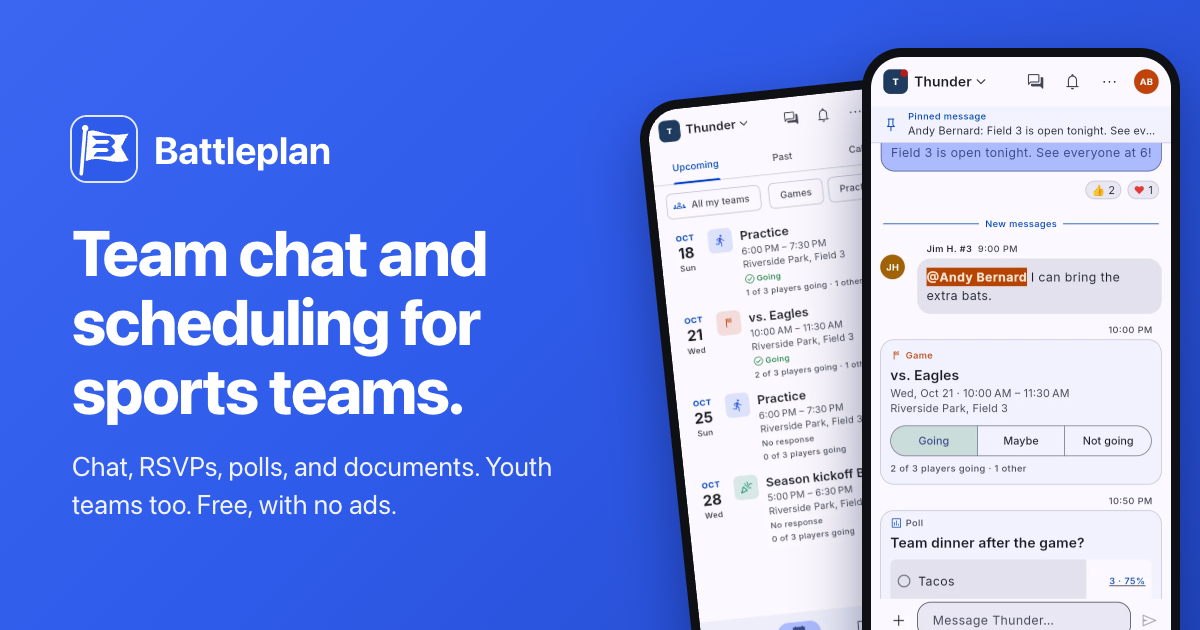
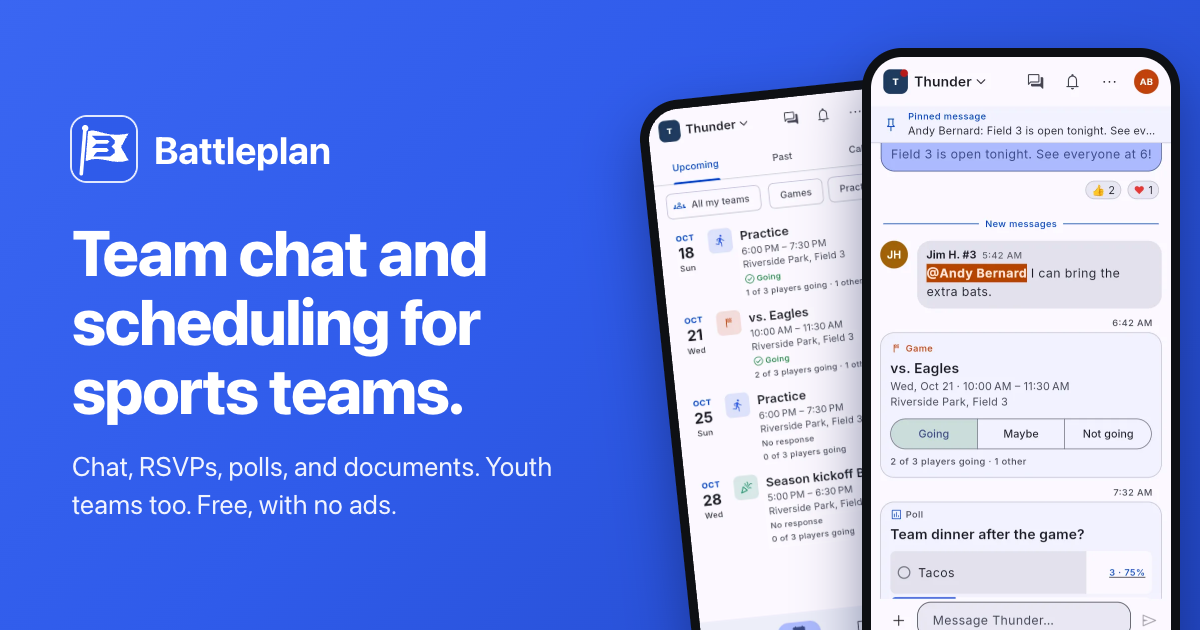
A more compact chat, like GroupMe's
Each message is its own bubble: the name and time sit inside it at the
top of a person's run (just the time on mine), photos sit inside with
their caption, the avatar is level with the bubble, and there's less
space between messages. Date separators are small pills. One-line
bubbles stay 48 tall, a full tap target. The landing page's
screenshots are retaken.

diff --git a/lib/features/chat/presentation/message_tile.dart b/lib/features/chat/presentation/message_tile.dart
@@ -502,77 +502,50 @@ class _MessageTileState extends ConsumerState<MessageTile> {
               onTap: widget.onOpenQuote,
             ),
           );
-    // A one-line bubble is 48 tall, a full tap target (SPEC §7.6).
-    final textBubble = Container(
-      constraints: const BoxConstraints(maxWidth: 520),
-      padding: const EdgeInsets.symmetric(
-        horizontal: Space.md,
-        vertical: Space.md,
-      ),
-      decoration: BoxDecoration(
-        color: deleted ? Colors.transparent : background,
-        border: deleted
-            ? Border.all(color: scheme.outlineVariant)
-            : announcement
-            ? Border.all(color: scheme.secondary)
-            : null,
-        borderRadius: BorderRadius.circular(Corners.bubble),
-      ),
-      child: deleted
-          ? Text(
-              switch (m.deletedReason) {
-                'admin' => l10n.messageRemovedByAdmin,
-                // Its last photo was deleted in Media (STORE-5).
-                'media' => l10n.photoRemovedByAdmin,
-                _ => l10n.messageDeleted,
-              },
-              style: TextStyle(
-                fontStyle: FontStyle.italic,
-                color: scheme.onSurfaceVariant,
+    // A poll shows as its card (POLL-2, CHAT-11); its text is the question,
+    // which the card shows itself.
+    final isPoll = m.type == MessageType.poll && !deleted;
+    // An event card (CHAT-11, SCHED-3), posted by the server.
+    final isEvent =
+        m.type == MessageType.event && m.eventId != null && !deleted;
+    final card = isPoll || isEvent;
+
+    // Inside the bubble, at the top (CHAT-1), as GroupMe has it: the name and
+    // time on a group's first message (mine shows only the time), and
+    // "edited" or "Pinned" on any message that is.
+    final meta = [
+      if (widget.startsGroup) ?time,
+      if (widget.startsGroup) headerMarks else marks,
+    ].where((p) => p.isNotEmpty).join(' · ');
+    final named = widget.startsGroup && !mine;
+    final innerHeader = card || (!named && meta.isEmpty)
+        ? null
+        : Padding(
+            padding: const EdgeInsets.only(bottom: 2),
+            child: Text.rich(
+              TextSpan(
+                children: [
+                  if (named)
+                    TextSpan(
+                      text: nameWithPlayersOf(
+                        m.authorName,
+                        m.authorPlayerSummary,
+                      ),
+                      style: theme.textTheme.labelLarge?.copyWith(
+                        fontWeight: FontWeight.w700,
+                        color: foreground,
+                      ),
+                    ),
+                  if (meta.isNotEmpty) TextSpan(text: named ? '  $meta' : meta),
+                ],
               ),
-            )
-          : Column(
-              crossAxisAlignment: CrossAxisAlignment.start,
-              mainAxisSize: MainAxisSize.min,
-              children: [
-                if (announcement)
-                  Padding(
-                    padding: const EdgeInsets.only(bottom: Space.xs),
-                    child: Row(
-                      mainAxisSize: MainAxisSize.min,
-                      children: [
-                        Icon(
-                          AppIcons.announcement,
-                          size: 18,
-                          color: foreground,
-                        ),
-                        const SizedBox(width: Space.xs),
-                        Text(
-                          l10n.chatAnnouncementLabel,
-                          style: theme.textTheme.labelLarge?.copyWith(
-                            color: foreground,
-                          ),
-                        ),
-                      ],
-                    ),
-                  ),
-                ?quote,
-                if (hasText)
-                  LinkifiedText(
-                    m.text,
-                    phones: !web,
-                    style: theme.textTheme.bodyLarge?.copyWith(
-                      color: foreground,
-                    ),
-                    linkColor: foreground,
-                    highlights: highlights,
-                    onOpen: (uri) =>
-                        unawaited(ref.read(linkOpenerProvider).open(uri)),
-                  ),
-              ],
+              style: theme.textTheme.labelMedium?.copyWith(
+                color: foreground.withValues(alpha: 0.7),
+              ),
             ),
-    );
-    // Photos sit above the caption (CHAT-3).
+          );
+
+    // Photos sit inside the bubble, above the caption (CHAT-3).
     final photos = deleted || m.attachments.isEmpty
         ? null
         : PhotoGrid(
@@ -597,13 +570,112 @@ class _MessageTileState extends ConsumerState<MessageTile> {
               );
             },
           );
-    // A poll shows as its card (POLL-2, CHAT-11); its text is the question,
-    // which the card shows itself.
-    final isPoll = m.type == MessageType.poll && !deleted;
-    // An event card (CHAT-11, SCHED-3), posted by the server.
-    final isEvent =
-        m.type == MessageType.event && m.eventId != null && !deleted;
-    final bubble = isPoll || isEvent
+    // Around photos the bubble is a thin frame, and what's above and below
+    // them is inset to line up with a text bubble's.
+    const photoInset = Space.xs + 2;
+    Widget inset(Widget child) => photos == null
+        ? child
+        : Padding(
+            padding: const EdgeInsets.symmetric(
+              horizontal: Space.md - photoInset,
+            ),
+            child: child,
+          );
+    final body = <Widget>[
+      if (innerHeader != null) inset(innerHeader),
+      if (deleted)
+        Text(
+          switch (m.deletedReason) {
+            'admin' => l10n.messageRemovedByAdmin,
+            // Its last photo was deleted in Media (STORE-5).
+            'media' => l10n.photoRemovedByAdmin,
+            _ => l10n.messageDeleted,
+          },
+          style: TextStyle(
+            fontStyle: FontStyle.italic,
+            color: scheme.onSurfaceVariant,
+          ),
+        )
+      else ...[
+        if (announcement)
+          Padding(
+            padding: const EdgeInsets.only(bottom: Space.xs),
+            child: Row(
+              mainAxisSize: MainAxisSize.min,
+              children: [
+                Icon(AppIcons.announcement, size: 18, color: foreground),
+                const SizedBox(width: Space.xs),
+                Text(
+                  l10n.chatAnnouncementLabel,
+                  style: theme.textTheme.labelLarge?.copyWith(
+                    color: foreground,
+                  ),
+                ),
+              ],
+            ),
+          ),
+        if (photos != null)
+          Padding(
+            padding: EdgeInsets.only(
+              top: innerHeader == null ? 0 : Space.xs,
+              bottom: hasText || quote != null ? Space.xs + 2 : 0,
+            ),
+            child: photos,
+          ),
+        if (quote != null) inset(quote),
+        if (hasText)
+          inset(
+            LinkifiedText(
+              m.text,
+              phones: !web,
+              style: theme.textTheme.bodyLarge?.copyWith(color: foreground),
+              linkColor: foreground,
+              highlights: highlights,
+              onOpen: (uri) =>
+                  unawaited(ref.read(linkOpenerProvider).open(uri)),
+            ),
+          ),
+      ],
+    ];
+    // Each message is its own bubble. A one-line bubble is 48 tall, a full
+    // tap target (SPEC §7.6); one with a header line is taller anyway, so
+    // its padding is tighter.
+    final textBubble = Container(
+      constraints: const BoxConstraints(maxWidth: 520),
+      padding: photos != null
+          ? EdgeInsets.fromLTRB(
+              photoInset,
+              innerHeader == null ? photoInset : Space.sm,
+              photoInset,
+              hasText ? Space.sm + 2 : photoInset,
+            )
+          : innerHeader != null
+          ? const EdgeInsets.fromLTRB(
+              Space.md,
+              Space.sm,
+              Space.md,
+              Space.sm + 2,
+            )
+          : const EdgeInsets.symmetric(
+              horizontal: Space.md,
+              vertical: Space.md,
+            ),
+      decoration: BoxDecoration(
+        color: deleted ? Colors.transparent : background,
+        border: deleted
+            ? Border.all(color: scheme.outlineVariant)
+            : announcement
+            ? Border.all(color: scheme.secondary)
+            : null,
+        borderRadius: BorderRadius.circular(Corners.bubble),
+      ),
+      child: Column(
+        crossAxisAlignment: CrossAxisAlignment.start,
+        mainAxisSize: MainAxisSize.min,
+        children: body,
+      ),
+    );
+    final bubble = card
         ? Column(
             crossAxisAlignment: mine
                 ? CrossAxisAlignment.end
@@ -622,20 +694,13 @@ class _MessageTileState extends ConsumerState<MessageTile> {
                 ),
             ],
           )
-        : Column(
-            crossAxisAlignment: mine
-                ? CrossAxisAlignment.end
-                : CrossAxisAlignment.start,
-            mainAxisSize: MainAxisSize.min,
-            children: [
-              ?photos,
-              if (photos != null && hasText) const SizedBox(height: 2),
-              if (photos == null || hasText || quote != null) textBubble,
-            ],
-          );
+        : textBubble;
 
     final openAuthor = mine ? null : _authorTap(m);
-    final header = widget.startsGroup && !mine
+    // Cards (polls, events) keep the name and time above them.
+    final header = !card
+        ? null
+        : widget.startsGroup && !mine
         ? Padding(
             padding: const EdgeInsets.only(left: Space.md, bottom: Space.xs),
             child: Text.rich(
@@ -825,18 +890,22 @@ class _MessageTileState extends ConsumerState<MessageTile> {
     // in a slot as wide as a tap target, since it opens their page.
     final avatarSlot = SizedBox(
       width: kMinInteractiveDimension,
+      // Level with the bubble's top, where the name is; a card has its
+      // name above it.
       child: widget.startsGroup
           ? Padding(
-              padding: const EdgeInsets.only(top: Space.lg),
+              padding: EdgeInsets.only(top: card ? Space.lg : 0),
               child: _AuthorAvatar(message: m, onTap: openAuthor),
             )
           : null,
     );
 
     final row = Padding(
+      // Compact, as GroupMe is: each bubble a little apart from the next,
+      // a little more between people.
       padding: EdgeInsets.fromLTRB(
         Space.md,
-        widget.startsGroup ? Space.sm : 2,
+        widget.startsGroup ? Space.xs + 2 : 3,
         Space.md,
         widget.endsGroup ? Space.xs : 0,
       ),
@@ -881,7 +950,7 @@ class _AuthorAvatar extends ConsumerWidget {
       name: message.authorName,
       colorKey: message.authorId,
       imageUrl: url,
-      size: 32,
+      size: 36,
     );
     final tap = onTap;
     if (tap == null) return avatar;

diff --git a/lib/features/chat/presentation/chat_screen.dart b/lib/features/chat/presentation/chat_screen.dart
@@ -1106,16 +1106,33 @@ class _DateSeparator extends StatelessWidget {
 
   final DateTime day;
 
+  /// A small pill ("Today"), as GroupMe has it.
   @override
   Widget build(BuildContext context) {
     final theme = Theme.of(context);
     return Padding(
-      padding: const EdgeInsets.symmetric(vertical: Space.md),
+      padding: const EdgeInsets.symmetric(vertical: Space.sm),
       child: Center(
-        child: Text(
-          dayLabel(AppLocalizations.of(context), day.toLocal(), DateTime.now()),
-          style: theme.textTheme.labelMedium?.copyWith(
-            color: theme.colorScheme.onSurfaceVariant,
+        child: DecoratedBox(
+          decoration: BoxDecoration(
+            color: theme.colorScheme.surfaceContainerHigh,
+            borderRadius: BorderRadius.circular(Corners.pill),
+          ),
+          child: Padding(
+            padding: const EdgeInsets.symmetric(
+              horizontal: Space.md,
+              vertical: Space.xs,
+            ),
+            child: Text(
+              dayLabel(
+                AppLocalizations.of(context),
+                day.toLocal(),
+                DateTime.now(),
+              ),
+              style: theme.textTheme.labelMedium?.copyWith(
+                color: theme.colorScheme.onSurfaceVariant,
+              ),
+            ),
           ),
         ),
       ),

diff --git a/docs/SPEC.md b/docs/SPEC.md
@@ -281,16 +281,17 @@ Sign in
 
 ```
 ┌────────────────────────────────────┐
-│ (TU) Thunder U14 v       ...  (JF) │
+│ (TU) Thunder U14 v [M] (!) ...(JF) │
 ├────────────────────────────────────┤
-│               Today                │
-│ (AK) Alex Kim                      │
-│      ┌─────────────────────────┐   │
+│              ( Today )             │
+│ (AK) ┌─────────────────────────┐   │
+│      │ Alex Kim  5:58 PM       │   │
 │      │ Field 3 is open. See    │   │
 │      │ you at 6!               │   │
 │      └─────────────────────────┘   │
 │       (Like 4) (Love 1)            │
 │               ┌──────────────────┐ │
+│               │ 6:02 PM          │ │
 │               │ On my way!       │ │
 │               └──────────────────┘ │
 │                                    │
@@ -600,8 +601,8 @@ Players that others answer for never get accounts, and every account belongs to 
   - One chat per team, newest messages at the bottom.
   - **Paging.** The chat loads the newest 50 messages and keeps them live. Scrolling up loads 50 older messages at a time, so a chat with years of history opens as fast as a new one.
   - With unread messages, the chat opens at the first unread message and loads newer ones as you scroll down.
-  - Date separators: Today, Yesterday, Mon Oct 6.
-  - Consecutive messages from one person are grouped, with their name and photo shown once. A member's name shows their players ("Maria R. · Emma #7", or "Jared F. #12" for a member who is a player, PLAYER-8).
+  - Date separators, as small pills: Today, Yesterday, Mon Oct 6.
+  - Each message is its own bubble, compact as GroupMe's (the owner's request, 2026-10-16). A person's run of messages (within 5 minutes) has their photo beside the first bubble, and their name and time inside it at the top; my own bubbles show just the time there. Photos sit inside the bubble, above the caption, and "edited" and "Pinned" go inside too. Polls and event cards keep the name and time above them. A member's name shows their players ("Maria R. · Emma #7", or "Jared F. #12" for a member who is a player, PLAYER-8).
   - Your messages sit on the right in the brand color; others' sit on the left on a neutral background.
   - Times appear on tap (phones), on hover (web), and at the start of each group.
 - **CHAT-2 · MVP · Composer.**

diff --git a/docs/ROADMAP.md b/docs/ROADMAP.md
@@ -252,6 +252,7 @@ SPEC PLAYER-12 and Q18, ARCH §6.2, §6.3, and D63. The owner asked to keep play
 279. ✅ About in Team settings, and "Made by a volunteer" on the landing page, at the owner's request (2026-10-15, SPEC TEAM-5, WEB-1). *Team settings ends with About: the version and build, Developed by Jared Freeman, that Battleplan is free and he builds it as a volunteer, and Buy Jared a coffee, which shows his Venmo card and Open Venmo. The landing page ends by saying he builds it for free because his team needed a better app, and charges nothing. Store checklist 5.8 covers the stores' payment rules for the link.*
 280. ✅ Direct messages, and a page for each person, at the owner's request (2026-10-16, SPEC CHAT-19, TEAM-15, ARCH D65). *Tapping someone's photo in a chat opens their page: photo, name, Message, and the teams you share, with what they are on each (Coach first, then Owner or Admin, their title, and their players). Teams you're not on never show, nor a team that keeps its people to its admins, unless they coach it, you're one of its admins, or you came from it. Message opens a one-to-one conversation with anyone you share a team with: the team chat for two (photos, replies, reactions, edits, the offline queue), from the new Messages button in the header, which counts unread conversations, or New message. Only the two people read it (super admins see only what's reported); blocking someone stops you messaging them and keeps what they send from reaching you, without telling them; a deleted account leaves the other person the conversation, read-only; 20 new conversations a day, and 50 MB of photos each. Tested in the rules (14), on the emulators (19), in the app (17), and end to end in Chrome against the emulators with Functions.*
 281. ✅ Two whiteboards on the landing page, at the owner's request (2026-10-16, SPEC WEB-1). *The Plays section shows two phones side by side: Cyclone's double cut to home on the baseball diamond (a ball in the left-center gap, the shortstop as lead relay, second base trailing, first base the cutoff in front of the plate), at its second step, and Thunder's pick and roll on the basketball half court. Both plays are in the seed.*
+282. ✅ A more compact chat, like GroupMe's, at the owner's request (2026-10-16, SPEC CHAT-1). *Each message is its own bubble, with the name and time inside it at the top of a person's run (just the time on mine), photos inside the bubble with the caption, the avatar level with the bubble, less space between messages, and date separators as small pills. One-line bubbles stay 48 tall, a full tap target.*
 
 ## Go-live in six phases
 
